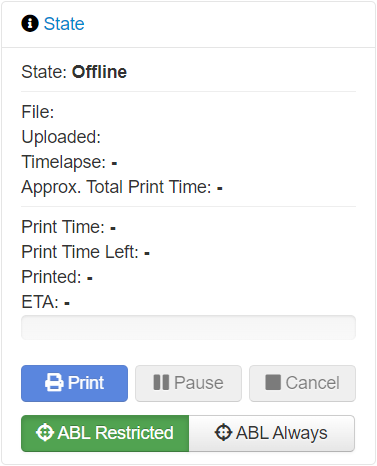
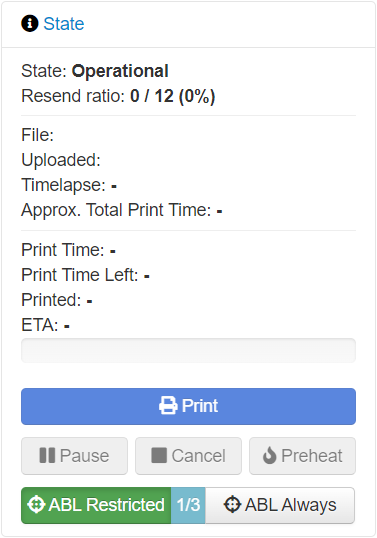
Updated README

Changed region(s): [[0.0584, 0.721, 0.9629, 0.9914], [0.0584, 0.03, 0.5836, 0.4206], [0.0584, 0.4506, 0.4085, 0.6609]]

diff --git a/README.md b/README.md
@@ -5,20 +5,40 @@ in order to minimize the number of ABLs triggered.
 
 ## How it works?
 
-The plugin reads `G29*` from ***.gcode** and check the bed mesh
-in memory.
-- If mesh is updated, `M429 S1` is sent in order to load bed mesh from memory.
-- If mesh is outdated or doesn't exist, `G29*` and `M500` are sent in order to
-generate a new mesh and save it to eeprom, respectively.
-> *: By default, the same ABL command read from your file is sent to the printer.
+The plugin reads `ABL_CMD`<sup>1</sup> from ***.gcode** and check the bed mesh
+in memory<sup>M</sup>.
+- If mesh is updated, `M429 S1`<sup>M</sup> is sent in order to load bed mesh from memory.
+- If mesh is outdated or doesn't exist, `ABL_CMD` is sent in order to generate a new mesh.
+On Marlin, `M500` is also sent to save the mesh on the eeprom.
+
+> <sup>1</sup>: ABL_CMD can be `G29` (Marlin), `G80` (Prusa) or `BED_MESH_CALIBRATE` (Klipper).
+
+> <sup>M</sup>: Marlin-only compatible.
+
+> Note: Prusa and Klipper require at least 1 ABL to track the state.
+
+> Note: By default, the same ABL command read from your file is sent to the printer, but
+> can be customized in SmartABL settings.
 
 References:
-- [G29](https://marlinfw.org/docs/gcode/G029.html)
-- [M420](https://marlinfw.org/docs/gcode/M420.html)
-- [M500](https://marlinfw.org/docs/gcode/M500.html)
+- [G29<sup>M</sup>](https://marlinfw.org/docs/gcode/G029.html)
+- [M420<sup>M</sup>](https://marlinfw.org/docs/gcode/M420.html)
+- [M500<sup>M</sup>](https://marlinfw.org/docs/gcode/M500.html)
+- [G80<sup>P</sup>](https://reprap.org/wiki/G-code#G80:_Mesh-based_Z_probe)
+- [G81<sup>P</sup>](https://reprap.org/wiki/G-code#G81:_Mesh_bed_leveling_status)
+- [BED\_MESH\_CALIBRATE<sup>K</sup>](https://www.klipper3d.org/Bed_Mesh.html#calibration)
+- [BED\_MESH\_OUTPUT<sup>K</sup>](https://www.klipper3d.org/Bed_Mesh.html#output)
+
 
 Credits to [Oscar](https://3dprinting.stackexchange.com/a/15953/27154)
 for the idea.
+
+## Compatibility
+- Marlin
+- Prusa
+- Klipper
+
+> Want your firmware to be compatible? Open an Issue on github so we can add compatibility 😊
 
 ## Setup
 
@@ -37,6 +57,9 @@ auto bed leveling. User *must* change default values in settings:
 **Leveling command**
 - Ignore gcode read from files and send a custom gcode instead.
 Default: disabled (G29).
+
+**Ignore gcodes**
+- Skip gcodes listed here.
 
 **Force bed leveling**
 - After `#` days. Default: disabled (1).
@@ -58,6 +81,8 @@ Default: disabled (only successful prints increase the counter).
 
 - **ABL Restricted**: Normal behaviour, the plugin chooses when to trigger ABL
 based on your settings.
+
+- **P/FP**: Number of current prints/Number of prints to force ABL.
 
 - **ABL Always**: Ignore settings; the plugin always trigger ABL. Handy when you
 need to force-update your mesh.
